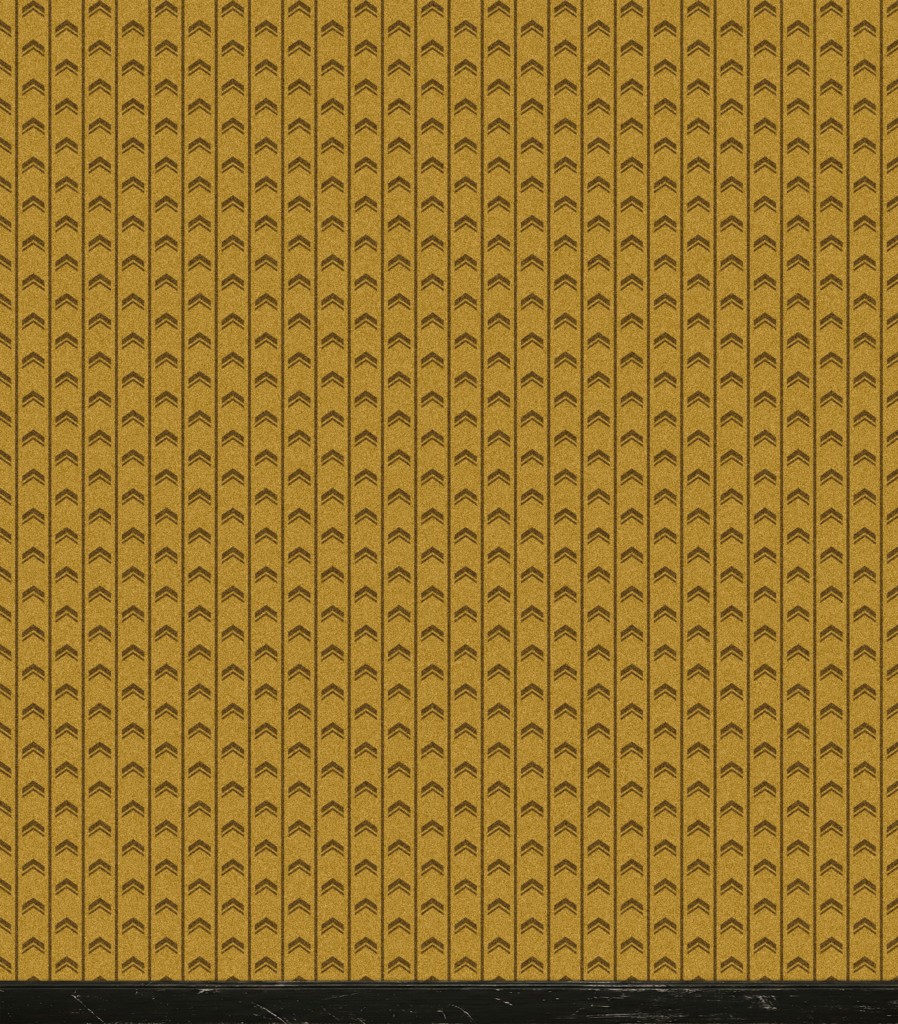
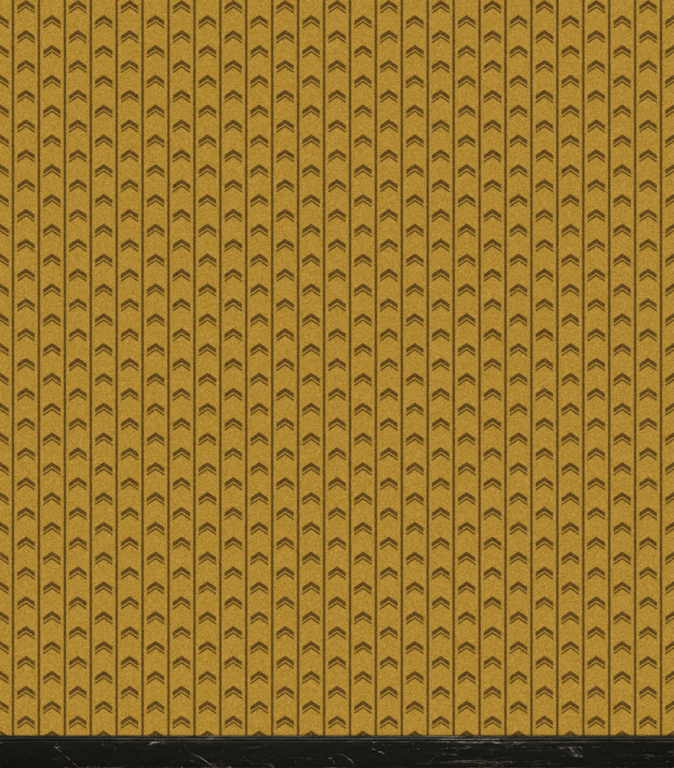
Optimisation: pseudo LOD system;

diff --git a/src/render/raycaster/wall_casting_bonus.c b/src/render/raycaster/wall_casting_bonus.c
@@ -1,5 +1,6 @@
 #include "render.h"
 #include "math.h"
+#include <stdio.h>
 
 /**
  * @brief Return the correct texture based on the direction that the wall was hit
@@ -31,7 +32,7 @@ static t_texture	*get_correct_texture(t_ray *ray, t_ctx *ctx)
  * @param pixels Array WIN_H x WIN_W
  * @param ctx 
  */
-void	put_vert_pixels(t_ray *ray, int raynumber, mlx_color *pixels, t_ctx *ctx)
+void	put_vert_pixels(t_ray *ray, int lod, mlx_color *pixels, t_ctx *ctx)
 {
 	t_texture			*texture;
 	double				wall_x;
@@ -41,9 +42,10 @@ void	put_vert_pixels(t_ray *ray, int raynumber, mlx_color *pixels, t_ctx *ctx)
 	double				step_y;
 	double				tex_pos;
 	int					draw_y;
+	int					i;
 
 	line_height = (int)(WIN_H / ray->perp_dist);
-	start = -line_height / 2 + WIN_H / 2;
+	start = -line_height * 0.5 + WIN_H * 0.5;
 
 	texture = get_correct_texture(ray, ctx);
 	if (ray->side_hit == 0)
@@ -68,12 +70,17 @@ void	put_vert_pixels(t_ray *ray, int raynumber, mlx_color *pixels, t_ctx *ctx)
 	{
 		tex[Y] = fmin((int)tex_pos, texture->height - 1);
 		tex_pos += step_y;
-		pixels[draw_y * WIN_W + raynumber] = mlx_get_image_pixel(ctx->mlx, texture->texture, tex[X], tex[Y]);
-		if (ray->side_hit == 1)
+		i = 0;
+		while (i < lod)
 		{
-			pixels[draw_y * WIN_W + raynumber].r *= 0.8;
-			pixels[draw_y * WIN_W + raynumber].g *= 0.8;
-			pixels[draw_y * WIN_W + raynumber].b *= 0.8;
+			pixels[draw_y * WIN_W + ray->number + i] = mlx_get_image_pixel(ctx->mlx, texture->texture, tex[X], tex[Y]);
+			if (ray->side_hit == 1)
+			{
+				pixels[draw_y * WIN_W + ray->number + i].r *= 0.8;
+				pixels[draw_y * WIN_W + ray->number + i].g *= 0.8;
+				pixels[draw_y * WIN_W + ray->number + i].b *= 0.8;
+			}
+			i++;
 		}
 		draw_y++;
 	}

diff --git a/src/render/raycaster/floor_casting_bonus.c b/src/render/raycaster/floor_casting_bonus.c
@@ -10,7 +10,7 @@
  * @param pixels Array of mlx_color (WIN_W x WIN_H)
  * @param ctx 
  */
-void	put_f_c_pixels(t_ray *ray, mlx_color *pixels, t_ctx *ctx)
+void	put_f_c_pixels(t_ray *ray, int lod, mlx_color *pixels, t_ctx *ctx)
 {
 	float	floor_step[2];
 	float	floor[2];
@@ -21,6 +21,7 @@ void	put_f_c_pixels(t_ray *ray, mlx_color *pixels, t_ctx *ctx)
 	int		floor_tex[2];
 	int		ceil_tex[2];
 	int		p;
+	int		i;
 
 	current[Y] = WIN_H * 0.5 + 1;
 	ray->ray_dir0[X] = ctx->player->dir_vec[X] - ctx->player->plane[X];
@@ -49,12 +50,19 @@ void	put_f_c_pixels(t_ray *ray, mlx_color *pixels, t_ctx *ctx)
 				,(ctx->map->textures->ceiling_tex->height - 1));
 			floor[X] += floor_step[X];
 			floor[Y] += floor_step[Y];
-			pixels[WIN_W * current[Y] + current[X]] = mlx_get_image_pixel(ctx->mlx, 
-				ctx->map->textures->floor_tex->texture, floor_tex[X], floor_tex[Y]);
-			pixels[WIN_W * (WIN_H - current[Y] - 1) + current[X]] = mlx_get_image_pixel(ctx->mlx, 
-				ctx->map->textures->ceiling_tex->texture, ceil_tex[X], ceil_tex[Y]);
+			i = 0;
+			while (i < lod)
+			{
+				if (WIN_W * (current[Y] + i) + current[X] <= WIN_H * WIN_W)
+					pixels[WIN_W * (current[Y] + i) + current[X]] = mlx_get_image_pixel(ctx->mlx, 
+						ctx->map->textures->floor_tex->texture, floor_tex[X], floor_tex[Y]);
+				if (WIN_W * (WIN_H - current[Y] - 1 + i) + current[X] <= WIN_H * WIN_W)
+					pixels[WIN_W * (WIN_H - current[Y] - 1 + i) + current[X]] = mlx_get_image_pixel(ctx->mlx, 
+						ctx->map->textures->ceiling_tex->texture, ceil_tex[X], ceil_tex[Y]);
+				i++;
+			}
 			current[X]++;
 		}
-		current[Y]++;
+		current[Y] += lod;
 	}
 }

diff --git a/src/render/raycaster/raycaster_bonus.c b/src/render/raycaster/raycaster_bonus.c
@@ -41,6 +41,7 @@ void	set_ray_val(t_ray *ray, int raynumber, t_ctx *ctx)
 	else
 		ray->side_dist[Y] = (ray->map[Y] + 1 - ctx->player->pos[Y])
 			* ray->delta[Y];
+	ray->number = raynumber;
 }
 
 /**
@@ -82,21 +83,21 @@ void	hit_loop(t_ray *ray, t_ctx *ctx)
  *
  * @param ctx global context of cub3d
  */
-void	raycaster(t_ctx *ctx)
+void	raycaster(int lod, t_ctx *ctx)
 {
 	static mlx_color	pixels[WIN_H * WIN_W];
 	size_t	raynumber;
 	t_ray	ray;
 
 	raynumber = 0;
-	put_f_c_pixels(&ray, pixels, ctx);
+	put_f_c_pixels(&ray, lod, pixels, ctx);
 	while (raynumber < WIN_W)
 	{
 		ft_bzero(&ray, sizeof(t_ray));
 		set_ray_val(&ray, raynumber, ctx);
 		hit_loop(&ray, ctx);
-		put_vert_pixels(&ray, raynumber, pixels, ctx);
-		raynumber++;
+		put_vert_pixels(&ray, lod, pixels, ctx);
+		raynumber += lod;
 	}
 	mlx_set_image_region(ctx->mlx, ctx->render, 0, 0, WIN_W, WIN_H, pixels);
 }

diff --git a/src/render/raycaster/raycaster.c b/src/render/raycaster/raycaster.c
@@ -76,13 +76,14 @@ void	hit_loop(t_ray *ray, t_ctx *ctx)
 		ray->perp_dist = ray->side_dist[Y] - ray->delta[Y];
 }
 
+
 /**
  * @brief Calculate the position of all pixel of the screen and put them
  * into the rneder image
  *
  * @param ctx global context of cub3d
  */
-void	raycaster(t_ctx *ctx)
+void	raycaster(int lod, t_ctx *ctx)
 {
 	static mlx_color	pixels[WIN_H * WIN_W];
 	size_t	raynumber;
@@ -95,7 +96,7 @@ void	raycaster(t_ctx *ctx)
 		set_ray_val(&ray, raynumber, ctx);
 		hit_loop(&ray, ctx);
 		put_vert_pixels(&ray, raynumber, pixels, ctx);
-		raynumber++;
+		raynumber += lod;
 	}
 	mlx_set_image_region(ctx->mlx, ctx->render, 0, 0, WIN_W, WIN_H, pixels);
 }

diff --git a/src/render/update_bonus.c b/src/render/update_bonus.c
@@ -2,6 +2,7 @@
 #include "mlx.h"
 #include "render.h"
 #include "utils.h"
+#include <stdio.h>
 
 static void	render_door_text(t_ctx *ctx)
 {
@@ -23,11 +24,10 @@ void	update(void *ptr)
 	player_mouse_rotate(ctx);
 	player_move(ctx);
 	player_rotate(ctx);
-	raycaster(ctx);
+	raycaster(ctx->lod_value, ctx);
 	mlx_clear_window(ctx->mlx, ctx->win, (mlx_color){.rgba = 0});
 	mlx_put_image_to_window(ctx->mlx, ctx->win, ctx->render, 0, 0);
 	display_map(ctx);
 	display_rec(ctx);
-	display_border(ctx);
 	render_door_text(ctx);
 }

diff --git a/include/render.h b/include/render.h
@@ -40,10 +40,11 @@ typedef struct s_ray
 	int		map[2];
 	int		hit;
 	int		side_hit;
+	int		number;
 }	t_ray;
 
-void	raycaster(t_ctx *ctx);
-void	put_f_c_pixels(t_ray *ray, mlx_color *pixels, t_ctx *ctx);
-void	put_vert_pixels(t_ray *ray, int raynumber, mlx_color *pixels, t_ctx *ctx);
+void	raycaster(int lod, t_ctx *ctx);
+void	put_f_c_pixels(t_ray *ray, int lod, mlx_color *pixels, t_ctx *ctx);
+void	put_vert_pixels(t_ray *ray, int lod, mlx_color *pixels, t_ctx *ctx);
 
 #endif

diff --git a/src/render/update.c b/src/render/update.c
@@ -3,6 +3,7 @@
 #include "player.h"
 #include "render.h"
 #include "utils.h"
+#include <stdio.h>
 
 int	is_player_moved(t_player *player)
 {
@@ -23,7 +24,7 @@ void	update(void *ptr)
 	player_move(ctx);
 	player_rotate(ctx);
 	if (is_player_moved(ctx->player))
-		raycaster(ctx);
+		raycaster(1, ctx);
 	mlx_clear_window(ctx->mlx, ctx->win, (mlx_color){.rgba = 0});
 	mlx_put_image_to_window(ctx->mlx, ctx->win, ctx->render, 0, 0);
 }

diff --git a/src/render/hooks/keydown_hooks.c b/src/render/hooks/keydown_hooks.c
@@ -84,4 +84,10 @@ void	all_keydown_hooks(int key, void *ptr)
 	open_door(key, ctx);
 	if (key == KEY_ESC)
 		mlx_loop_end(ctx->mlx);
+	if (key == KEY_PLUS)
+		ctx->lod_value++;
+	if (key == KEY_MINUS)
+		ctx->lod_value--;
+	if (ctx->lod_value < 1)
+		ctx->lod_value = 1;
 }

diff --git a/src/render/renderer.c b/src/render/renderer.c
@@ -38,7 +38,7 @@ static void	init_render(t_ctx *ctx)
 int	render_cub3d(t_ctx *ctx)
 {
 	init_render(ctx);
-	raycaster(ctx);
+	raycaster(1, ctx);
 	mlx_loop(ctx->mlx);
 	return (1);
 }

diff --git a/include/ctx.h b/include/ctx.h
@@ -14,6 +14,7 @@ typedef struct s_ctx
 	double		old_frame;
 	double		frame;
 	double		frame_time;
+	int			lod_value;
 }	t_ctx;
 
 t_ctx	*init_ctx(char *file_path);

diff --git a/src/ctx.c b/src/ctx.c
@@ -73,5 +73,6 @@ t_ctx	*init_ctx(char *file_path)
 	}
 	ctx->map->file_path = file_path;
 	ctx->mlx = mlx_init();
+	ctx->lod_value = 4;
 	return (ctx);
 }
